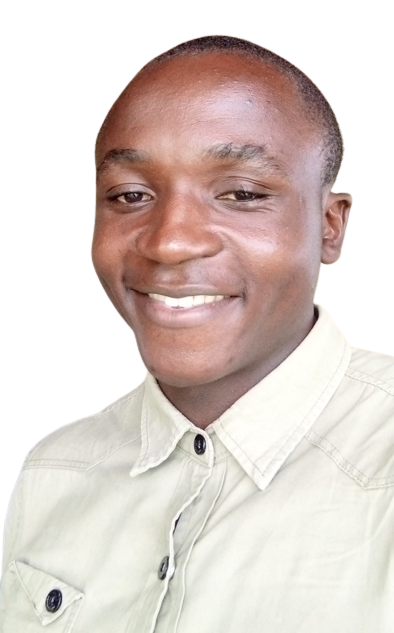
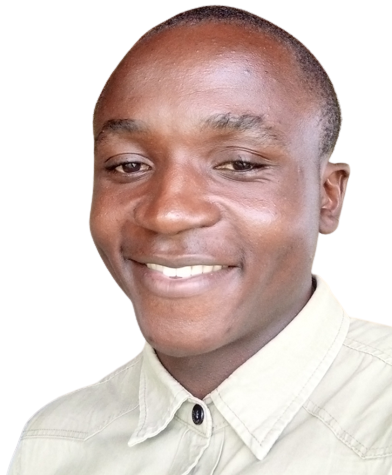
make homepage and navbar responsive

diff --git a/app/components/layout/HeaderNav.tsx b/app/components/layout/HeaderNav.tsx
@@ -1,0 +1,101 @@
+'use client';
+
+import React, { FC, useEffect, useRef, useState } from 'react';
+import { useTheme } from 'next-themes';
+import { IoMdMoon } from 'react-icons/io';
+import { BsFillSunFill } from 'react-icons/bs';
+import { usePathname } from 'next/navigation';
+import { VscMenu, VscChromeClose } from 'react-icons/vsc';
+import { PAGES } from '@/app/config';
+import { CustomLink } from '@/app/utils/types';
+import NavLink from '@/app/components/common/NavLink';
+
+interface HeaderNavProps {
+	className?: string;
+}
+
+const navLinks: CustomLink[] = [
+	{
+		text: 'Home',
+		href: PAGES.home,
+	},
+	{
+		text: 'About Me',
+		href: PAGES.aboutMe,
+	},
+	{
+		text: 'Projects',
+		href: PAGES.projects,
+	},
+	{
+		text: 'Blog',
+		href: PAGES.blog,
+	},
+	{
+		text: 'Contact',
+		href: PAGES.contact,
+	},
+];
+
+const HeaderNav: FC<HeaderNavProps> = ({ className = '' }) => {
+	const { systemTheme, theme, setTheme } = useTheme();
+	const [mounted, setMounted] = useState(false);
+	const pathName = usePathname();
+	const [showMenu, setShowMenu] = useState(false);
+	const menuRef = useRef<HTMLElement>(null);
+
+	useEffect(() => {
+		setMounted(true);
+	}, []);
+	useEffect(() => {
+		setShowMenu(false);
+	}, [pathName]);
+
+	const onStepOut = () => {
+		setTimeout(() => {
+			!menuRef.current?.contains(document.activeElement) && setShowMenu(false);
+		}, 200);
+	};
+
+	const renderThemeChanger = () => {
+		if (!mounted) return null;
+		const currentTheme = theme === 'system' ? systemTheme : theme;
+
+		return (
+			<button
+				className="text-xl text-primary"
+				onClick={() => setTheme(currentTheme === 'dark' ? 'light' : 'dark')}
+			>
+				{currentTheme === 'dark' ? <BsFillSunFill /> : <IoMdMoon />}
+			</button>
+		);
+	};
+
+	return (
+		<nav
+			className={`${className} flex items-center gap-6 smm:relative`}
+			onBlur={onStepOut}
+			ref={menuRef}
+		>
+			<div
+				className={`
+          ${showMenu ? 'smm:flex' : 'smm:hidden'} 
+          bg-bgLight dark:bg-bgDark smm:w-[120px] smm:pr-5 smm:pt-3 smm:pb-7 items-end md:items-center smm:absolute smm:top-[55px] smm:right-[-15px] smm:rounded-[4px] flex smm:flex-col justify-center gap-5 md:gap-6
+        `}
+			>
+				{navLinks.map((link) => (
+					<NavLink {...link} key={link.text} />
+				))}
+			</div>
+			<div className="w-[30px] mt-2">{renderThemeChanger()}</div>
+			<button
+				className="p-1.5 md:hidden text-[24px] text-myPrimary md:p-2 rounded-full bg-primary text-white cursor-pointer"
+				onClick={() => setShowMenu(!showMenu)}
+			>
+				{showMenu ? <VscChromeClose /> : <VscMenu />}
+			</button>
+		</nav>
+	);
+};
+
+export default HeaderNav;

diff --git a/app/(pages)/page.tsx b/app/(pages)/page.tsx
@@ -10,25 +10,27 @@ const HomePage = () => {
 	const router = useRouter();
 
 	return (
-		<main className="hFill flex items-center justify-center bg-radialBg">
-			<div className="h-full w-2/5 flex justify-center items-center pt-5">
+		<main className="scrollbar-none overflow-y-scroll px-2.5 md:px-10 hFill flex smm:flex-col items-center justify-start md:justify-center bg-radialBg">
+			<div className="h-full w-full md:w-2/5 flex justify-center items-center pt-5 smm:pb-5">
 				<img
 					src="/assets/images/me.png"
 					alt="Gilbert Temgoua"
-					className="h-full object-cover scale-x-[-1]"
+					className="h-44 md:h-[300px] object-cover scale-x-[-1] rounded-full"
+					loading="lazy"
 				/>
 			</div>
-			<div className="flex flex-col justify-center items-start gap-3 text-lg">
-				<p>HI!</p>
-				<h1 className="text-4xl uppercase">
+			<div className="smm:mt-4 flex flex-col justify-center items-start gap-3 text-lg">
+				<p className="smm:mx-auto">HI!</p>
+				<h1 className="text-3xl md:text-4xl uppercase mb-2 md:mb-5">
 					i am <span className="text-primary font-[900]">Gilbert Temgoua</span>
 				</h1>
-				<p>I'm a passionate web developer based in Yaounde, Cameroon</p>
+				<p>I'm a passionate web developer based in Yaounde, Cameroon.</p>
 				<p>
-					I strive to build impactful and attractive web applications leveraging <br />
+					I strive to build impactful and attractive web applications leveraging{' '}
+					<br className="smm:hidden" />
 					best code standards and latest technologies.
 				</p>
-				<div className="flex justify-center items-center gap-5 mt-5">
+				<div className="smm:w-full flex justify-around md:justify-center items-center gap-2 md:gap-5 mt-5">
 					<PrimaryButton
 						onClick={() => router.replace(PAGES.aboutMe)}
 						text="MORE ABOUT ME"
@@ -36,7 +38,7 @@ const HomePage = () => {
 					/>
 					<PrimaryButton
 						onClick={() => router.replace(PAGES.projects)}
-						text="PORTFOLIO"
+						text="MY PORTFOLIO"
 						icon={<BsBriefcaseFill />}
 					/>
 				</div>

diff --git a/app/components/layout/Header.tsx b/app/components/layout/Header.tsx
@@ -1,48 +1,15 @@
-'use client';
-
-import { FC, useState, useEffect } from 'react';
-import { useTheme } from 'next-themes';
-import { IoMdMoon } from 'react-icons/io';
-import { BsFillSunFill } from 'react-icons/bs';
+import { FC } from 'react';
 import { PAGES } from '@/app/config';
-import NavLink from '@/app/components/common/NavLink';
 import Link from 'next/link';
+import HeaderNav from '@/app/components/layout/HeaderNav';
 
 const Header: FC = () => {
-	const { systemTheme, theme, setTheme } = useTheme();
-	const [mounted, setMounted] = useState(false);
-
-	useEffect(() => {
-		setMounted(true);
-	}, []);
-
-	const renderThemeChanger = () => {
-		if (!mounted) return null;
-		const currentTheme = theme === 'system' ? systemTheme : theme;
-
-		return (
-			<button
-				className="text-xl text-primary"
-				onClick={() => setTheme(currentTheme === 'dark' ? 'light' : 'dark')}
-			>
-				{currentTheme === 'dark' ? <BsFillSunFill /> : <IoMdMoon />}
-			</button>
-		);
-	};
-
 	return (
-		<header className="fixed bg-opacity-100 z-10 top-0 flex justify-between items-center h-[60px] w-full px-10 shadow-sm shadow-gray-300 dark:shadow-gray-800">
+		<header className="fixed bg-opacity-100 z-10 top-0 flex justify-between items-center h-[60px] w-full px-2.5 md:px-10 shadow-sm shadow-gray-300 dark:shadow-gray-800">
 			<div className="flex justify-center items-center">
 				<Link href={PAGES.home}>Temgoua</Link>
 			</div>
-			<nav className="flex gap-5 items-center">
-				<NavLink href={PAGES.home} text="Home" />
-				<NavLink href={PAGES.aboutMe} text="About Me" />
-				<NavLink href={PAGES.projects} text="Projects" />
-				<NavLink href={PAGES.blog} text="Blog" />
-				<NavLink href={PAGES.contact} text="Contact" />
-				<div className="w-[30px]">{renderThemeChanger()}</div>
-			</nav>
+			<HeaderNav />
 		</header>
 	);
 };

diff --git a/app/components/common/PrimaryButton.tsx b/app/components/common/PrimaryButton.tsx
@@ -15,7 +15,7 @@ const PrimaryButton: FC<PrimaryButtonProps> = ({
 }) => {
 	return (
 		<button
-			className={`${className} text-white font-medium rounded-full h-10 px-5 flex justify-center items-center gap-3 bg-primary/90 hover:bg-primary`}
+			className={`${className} smm:text-sm text-white font-medium rounded-full h-10 px-3 md:px-5 flex justify-center items-center gap-1.5 md:gap-3 bg-primary/90 hover:bg-primary`}
 			onClick={onClick}
 		>
 			<span>{icon}</span>

diff --git a/app/components/common/NavLink.tsx b/app/components/common/NavLink.tsx
@@ -10,7 +10,9 @@ interface NavLinkProps {
 
 const NavLink: FC<NavLinkProps> = ({ className = '', href, text }) => {
 	const isActive = usePathname() === href;
-	const activeClass = isActive ? 'underline decoration-4 underline-offset-8 text-primary' : '';
+	const activeClass = isActive
+		? 'underline decoration-4 underline-offset-4 md:underline-offset-8 text-primary'
+		: '';
 
 	return (
 		<Link

diff --git a/tailwind.config.ts b/tailwind.config.ts
@@ -26,10 +26,11 @@ const config: Config = {
 				primary: '#8a2be2', // purple
 				bgLight: '#eff0f3',
 				light: '#202020',
-				secondaryLight: '#fff',
+				secondLight: '#fff',
 				tertiaryLight: '#fff',
 
 				bgDark: '#02030f',
+				bgDarkSecond: '#070023',
 				dark: '#efefef',
 				secondaryDark: '#fff',
 				tertiaryDark: '#fff',

diff --git a/app/globals.css b/app/globals.css
@@ -19,6 +19,17 @@
 	border: 0.2rem solid #fff;
 }
 
+.scrollbar-none::-webkit-scrollbar {
+	width: 0;
+}
+
 .hFill {
-  height: calc(100dvh - 60px);
+  min-height: calc(100dvh - 60px);
+  overflow-y: scroll;
+}
+
+@media all and (min-width: '768px') {
+  .hFill {
+    height: calc(100dvh - 60px);
+  }
 }

diff --git a/app/utils/types.ts b/app/utils/types.ts
@@ -1,0 +1,4 @@
+export type CustomLink = {
+	text: string;
+	href: string;
+};
